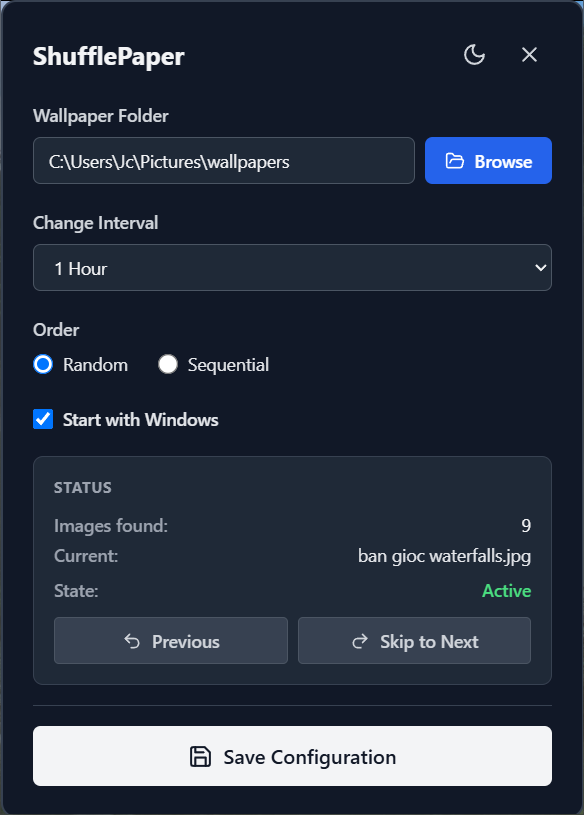
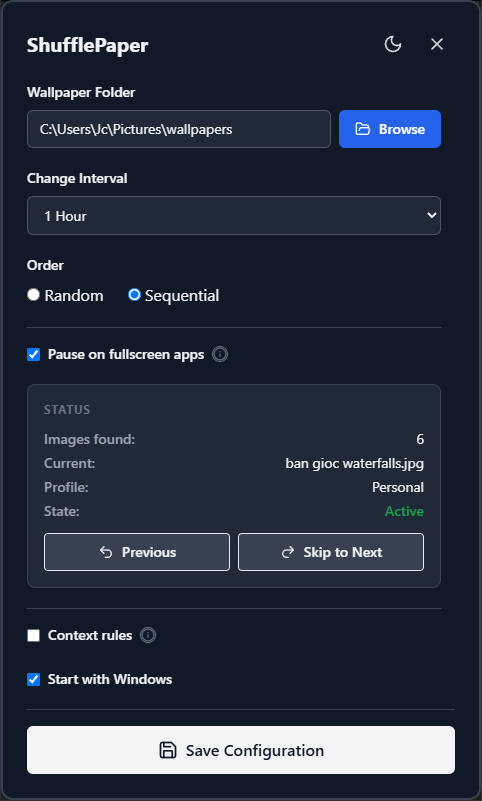
docs: update documentation and screenshots

diff --git a/README.md b/README.md
@@ -78,6 +78,8 @@ The installer / executable will be generated in `src-tauri/target/release/`.
 
 ### Context rules
 
+![ShufflePaper context rules](screenshot_context_rules.png)
+
 When **Context rules** is enabled, ShufflePaper selects the wallpaper folder based on the current profile:
 
 - During selected work days and working hours, wallpapers are selected from the **Work folder**.
